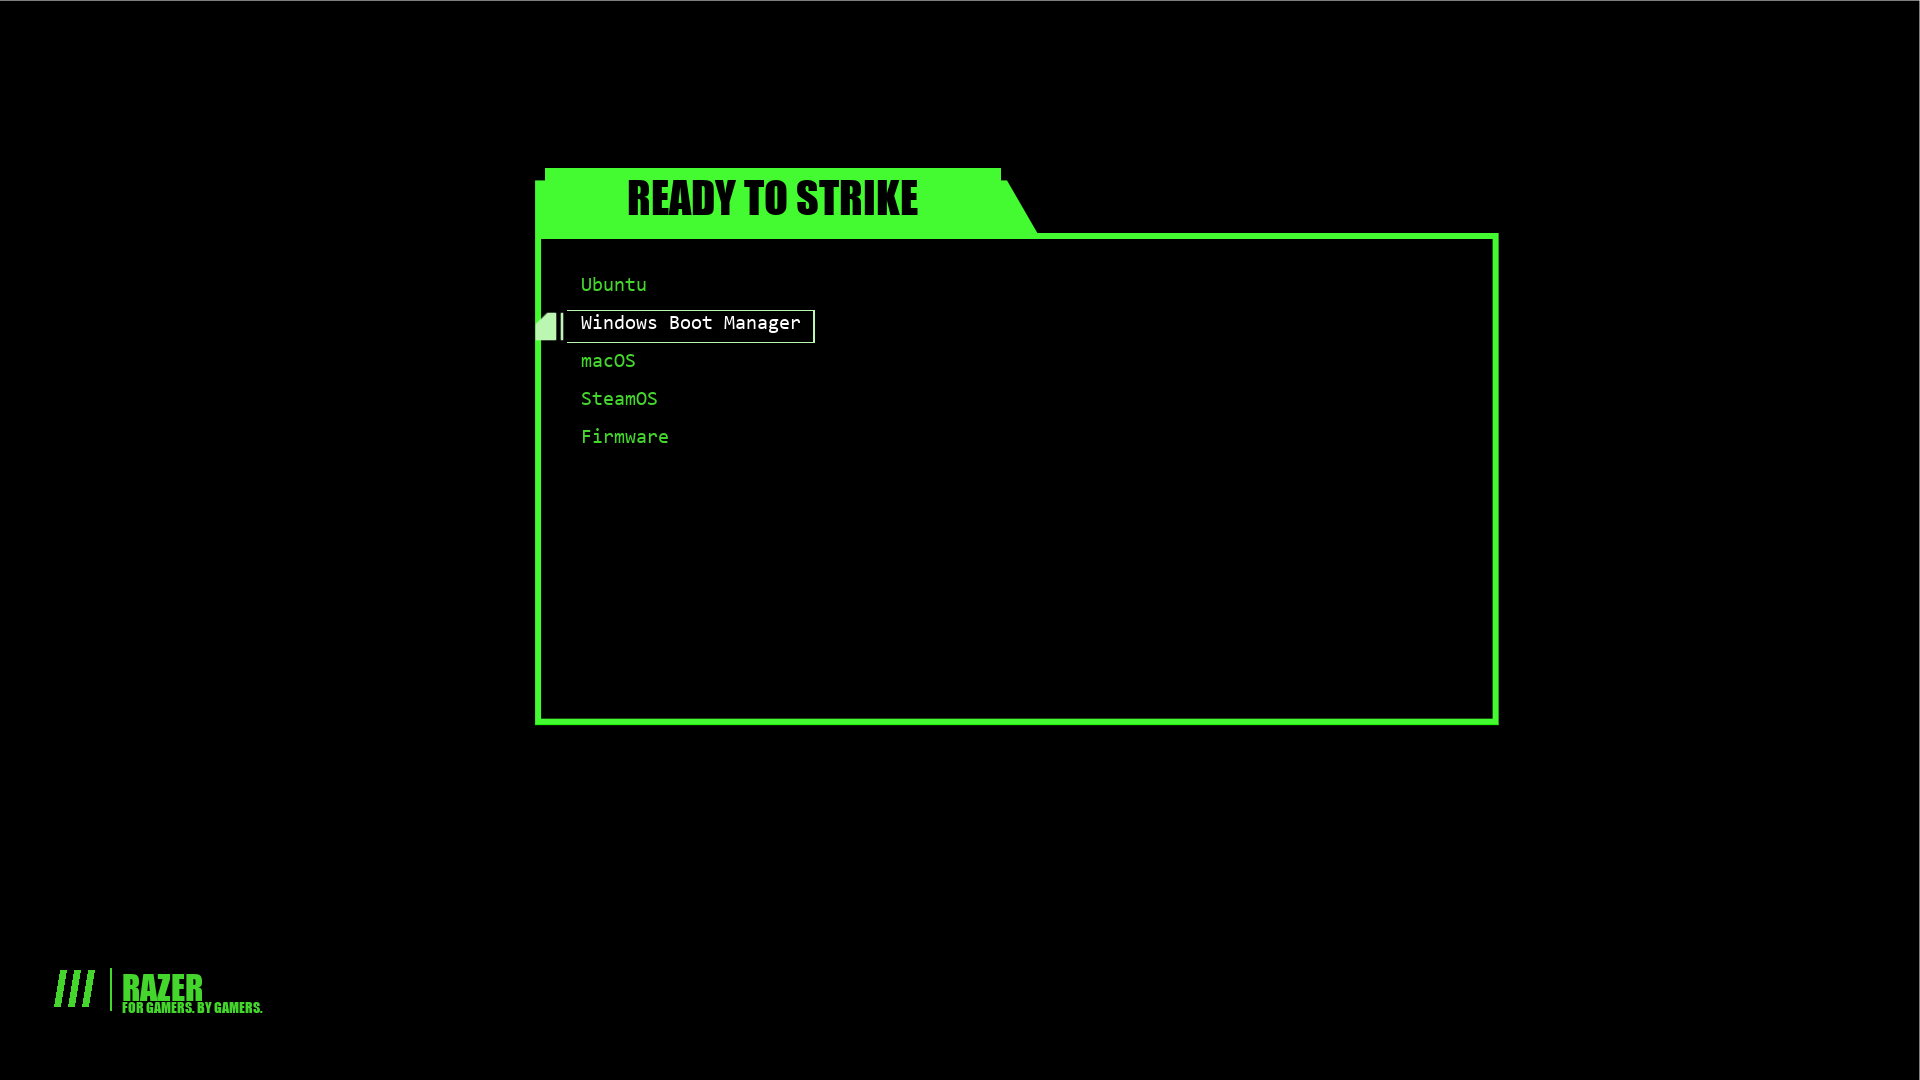
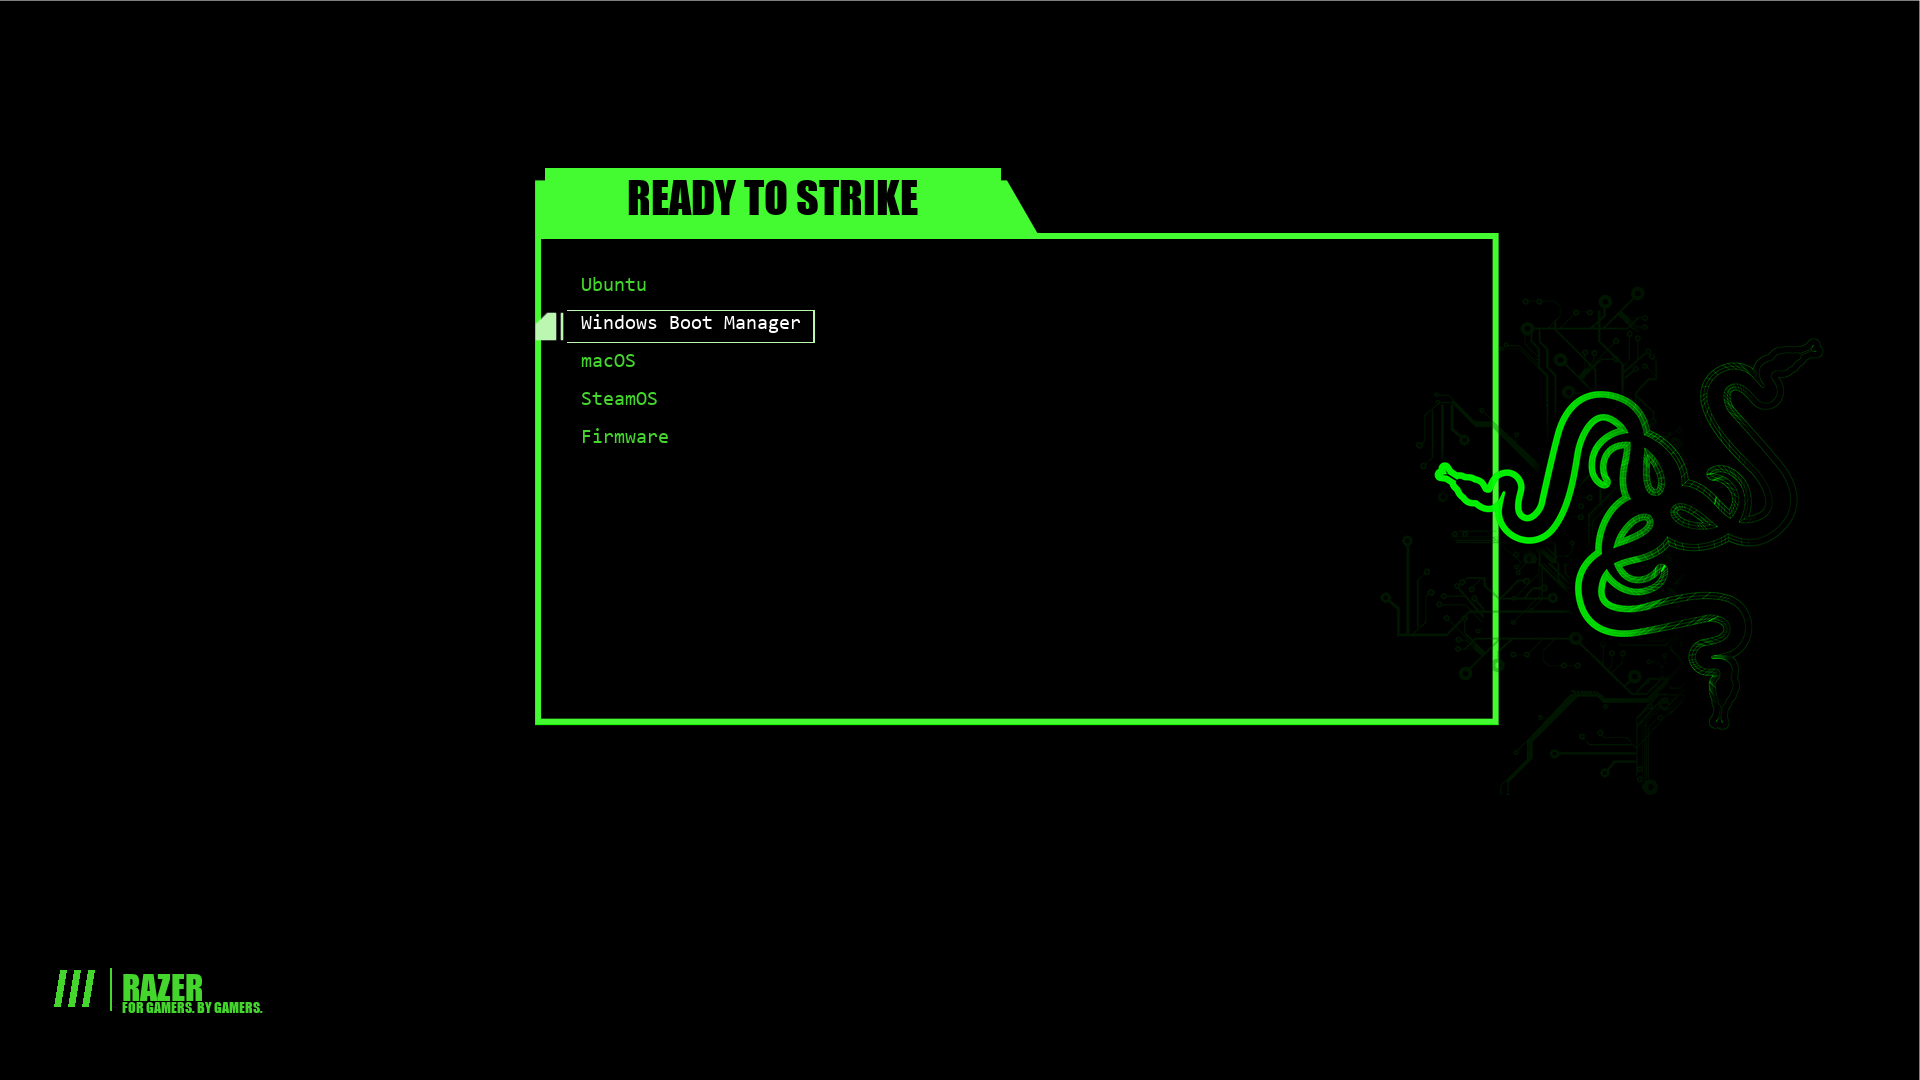
Add Razer snake artwork to right side of background
Composites the classic Razer triple-snake + circuit-board wallpaper
onto the right margin of the boot screen. Luminance-derived alpha
masks out the black source background, leaving only the green snake
silhouette and circuit traces.

Changed region(s): [[0.75, 0.3361, 0.9375, 0.6417]]

diff --git a/scripts/build_background.py b/scripts/build_background.py
@@ -3,8 +3,10 @@ import colorsys
 from pathlib import Path
 from PIL import Image, ImageDraw, ImageFont
 
-SRC = Path(__file__).resolve().parents[1] / "ROG_GRUB_Theme" / "ROG" / "background.png"
-DST = Path(__file__).resolve().parents[1] / "Razer" / "background.png"
+ROOT = Path(__file__).resolve().parents[1]
+SRC = ROOT / "ROG_GRUB_Theme" / "ROG" / "background.png"
+DST = ROOT / "Razer" / "background.png"
+SNAKE_SRC = ROOT / "assets_input" / "razer_design_labs-1920x1200.jpg"
 
 # Razer signature green (#44D62C) - HSV hue ~= 114 deg
 RAZER_GREEN = (0x44, 0xD6, 0x2C)
@@ -109,6 +111,27 @@ def main():
     draw.text((sep_x + 12, bar_y - 4), "RAZER", font=big_font, fill=RAZER_GREEN)
     # tagline below
     draw.text((sep_x + 12, bar_y + 28), "FOR GAMERS. BY GAMERS.", font=small_font, fill=RAZER_GREEN)
+
+    # ---- Overlay Razer snake artwork on the right side ----
+    # Uses luminance as alpha: black bg of the source becomes transparent so
+    # only the green snake + circuit lines composite onto the canvas.
+    if SNAKE_SRC.exists():
+        snake = Image.open(SNAKE_SRC).convert("RGB")
+        # Crop tight on the snake/circuit area, dropping empty side borders
+        snake = snake.crop((250, 50, 1500, 1150))  # 1250x1100
+        gray = snake.convert("L")
+        alpha = gray.point(lambda v: 0 if v < 25 else min(int(v * 1.6), 255))
+        snake = snake.copy()
+        snake.putalpha(alpha)
+        # Scale to ~580 wide, fits in the empty strip right of the menu frame
+        target_w = 580
+        ratio = target_w / snake.width
+        target_h = int(snake.height * ratio)
+        snake = snake.resize((target_w, target_h), Image.LANCZOS)
+        # Right-aligned with small margin, vertically centered on canvas
+        px = w - target_w - 30
+        py = (h - target_h) // 2
+        img.alpha_composite(snake, (px, py))
 
     DST.parent.mkdir(parents=True, exist_ok=True)
     img.save(DST)